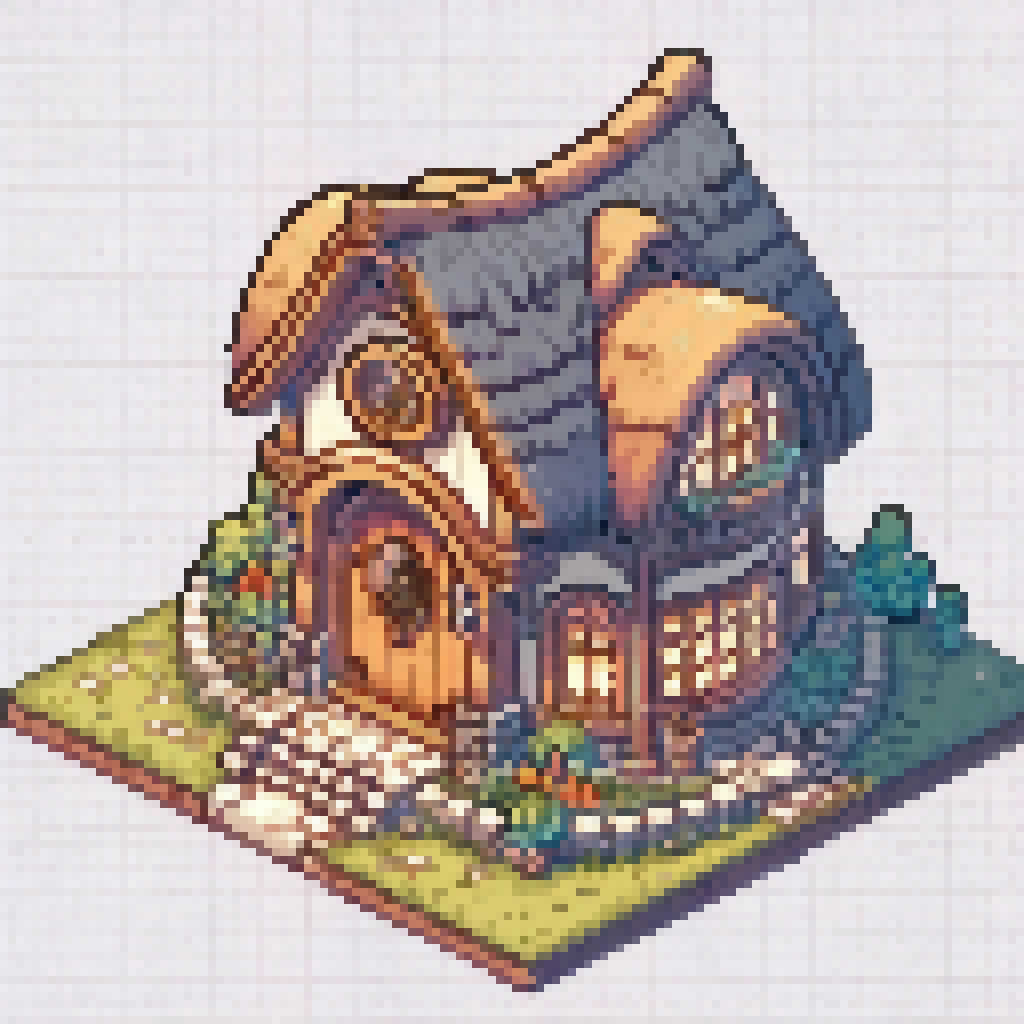
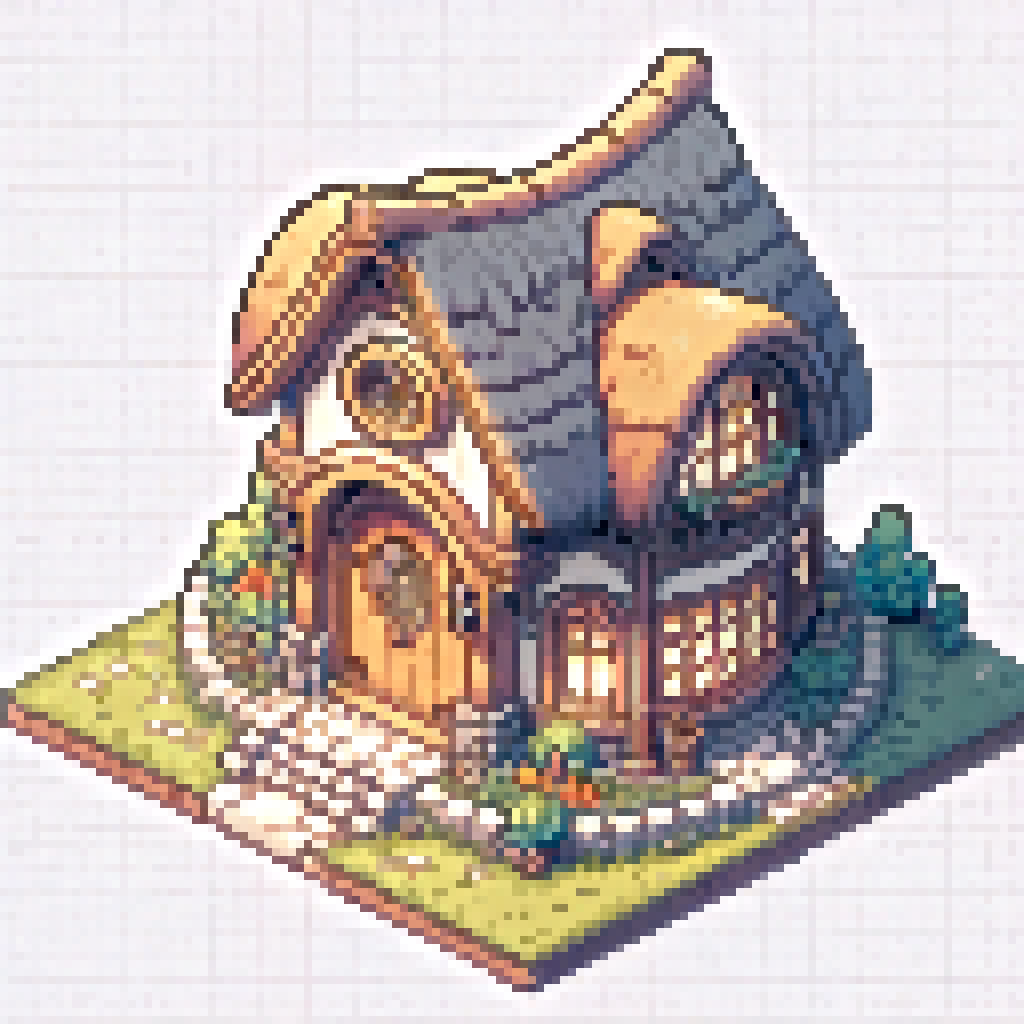
Fix color-match arg and add no_downscale

diff --git a/pixeloe/cli.py b/pixeloe/cli.py
@@ -16,11 +16,12 @@ def parse_args():
     parser.add_argument("--target_size", "-S", type=int, default=256)
     parser.add_argument("--patch_size", "-P", type=int, default=6)
     parser.add_argument("--thickness", "-T", type=int, default=1)
-    parser.add_argument("--color_matching", action="store_true")
+    parser.add_argument("--no_color_matching", action="store_true")
     parser.add_argument("--contrast", type=float, default=1.0)
     parser.add_argument("--saturation", type=float, default=1.0)
     parser.add_argument("--colors", type=int, default=None)
     parser.add_argument("--no_upscale", action="store_true")
+    parser.add_argument("--no_downscale", action="store_true")
     return parser.parse_args()
 
 
@@ -41,11 +42,12 @@ def main():
         args.target_size,
         args.patch_size,
         args.thickness,
-        args.color_matching,
+        not args.no_color_matching,
         args.contrast,
         args.saturation,
         args.colors,
         args.no_upscale,
+        args.no_downscale,
     )
     if args.output_img is None:
         args.output_img = os.path.join(

diff --git a/pixeloe/pixelize.py b/pixeloe/pixelize.py
@@ -18,6 +18,7 @@ def pixelize(
     saturation=1.0,
     colors=None,
     no_upscale=False,
+    no_downscale=False,
 ):
     H, W, C = img.shape
 
@@ -34,6 +35,8 @@ def pixelize(
     if color_matching:
         img = match_color(img, org_img)
 
+    if no_downscale:
+        return img
     img_sm = downscale_mode[mode](img, target_size)
 
     if contrast != 1 or saturation != 1:
